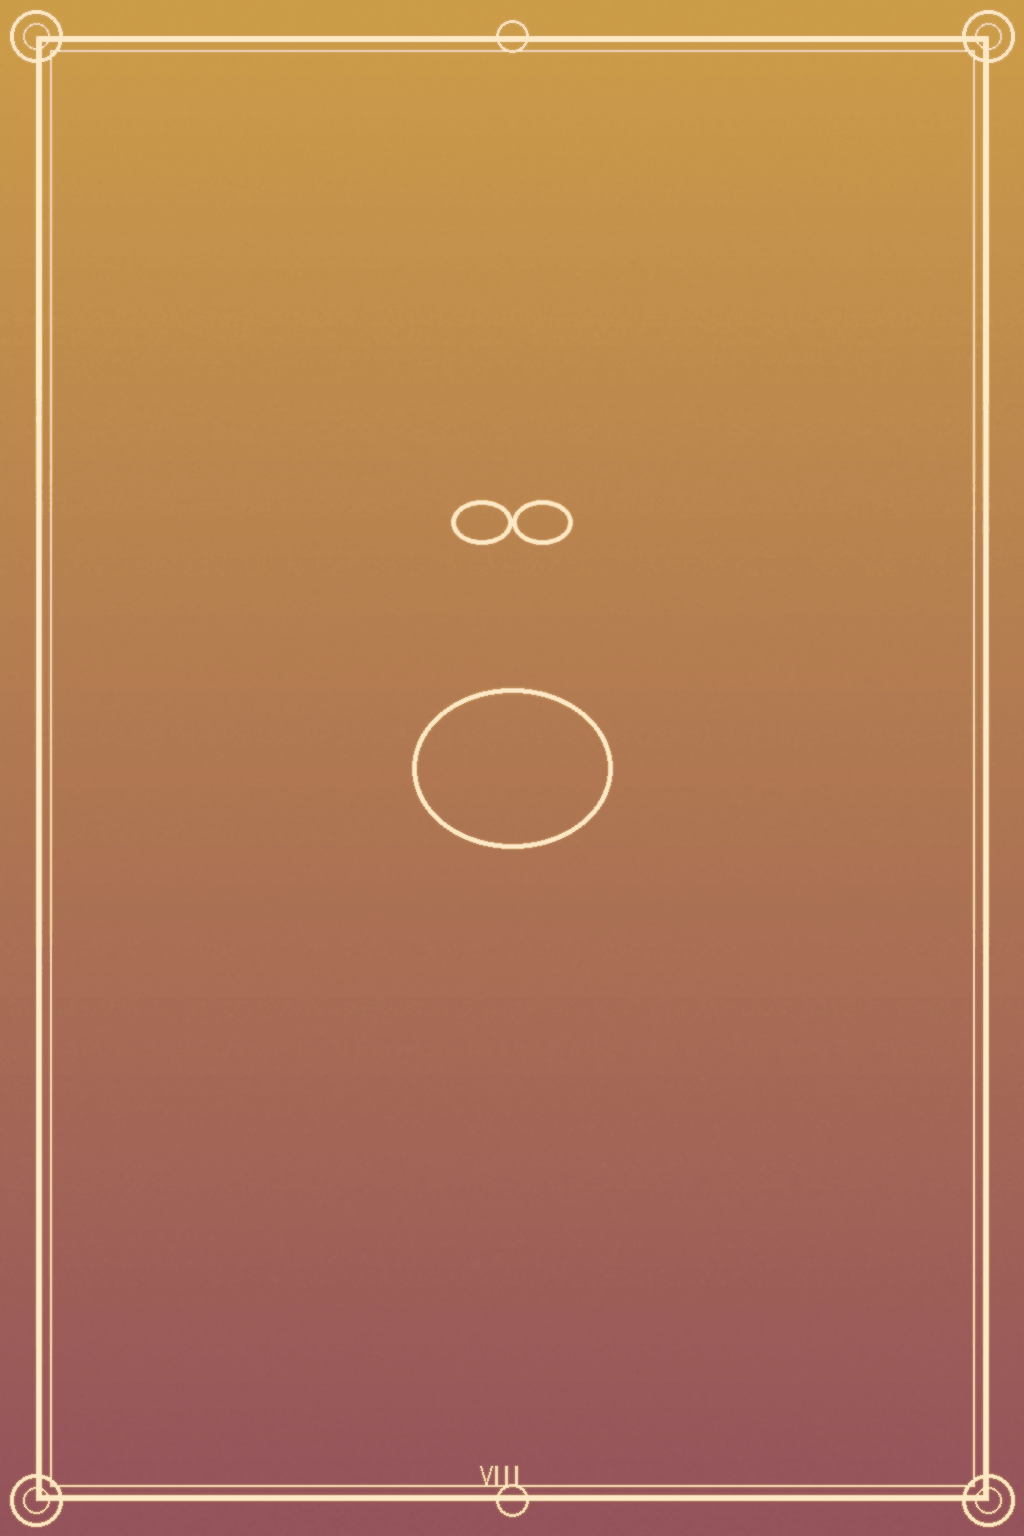
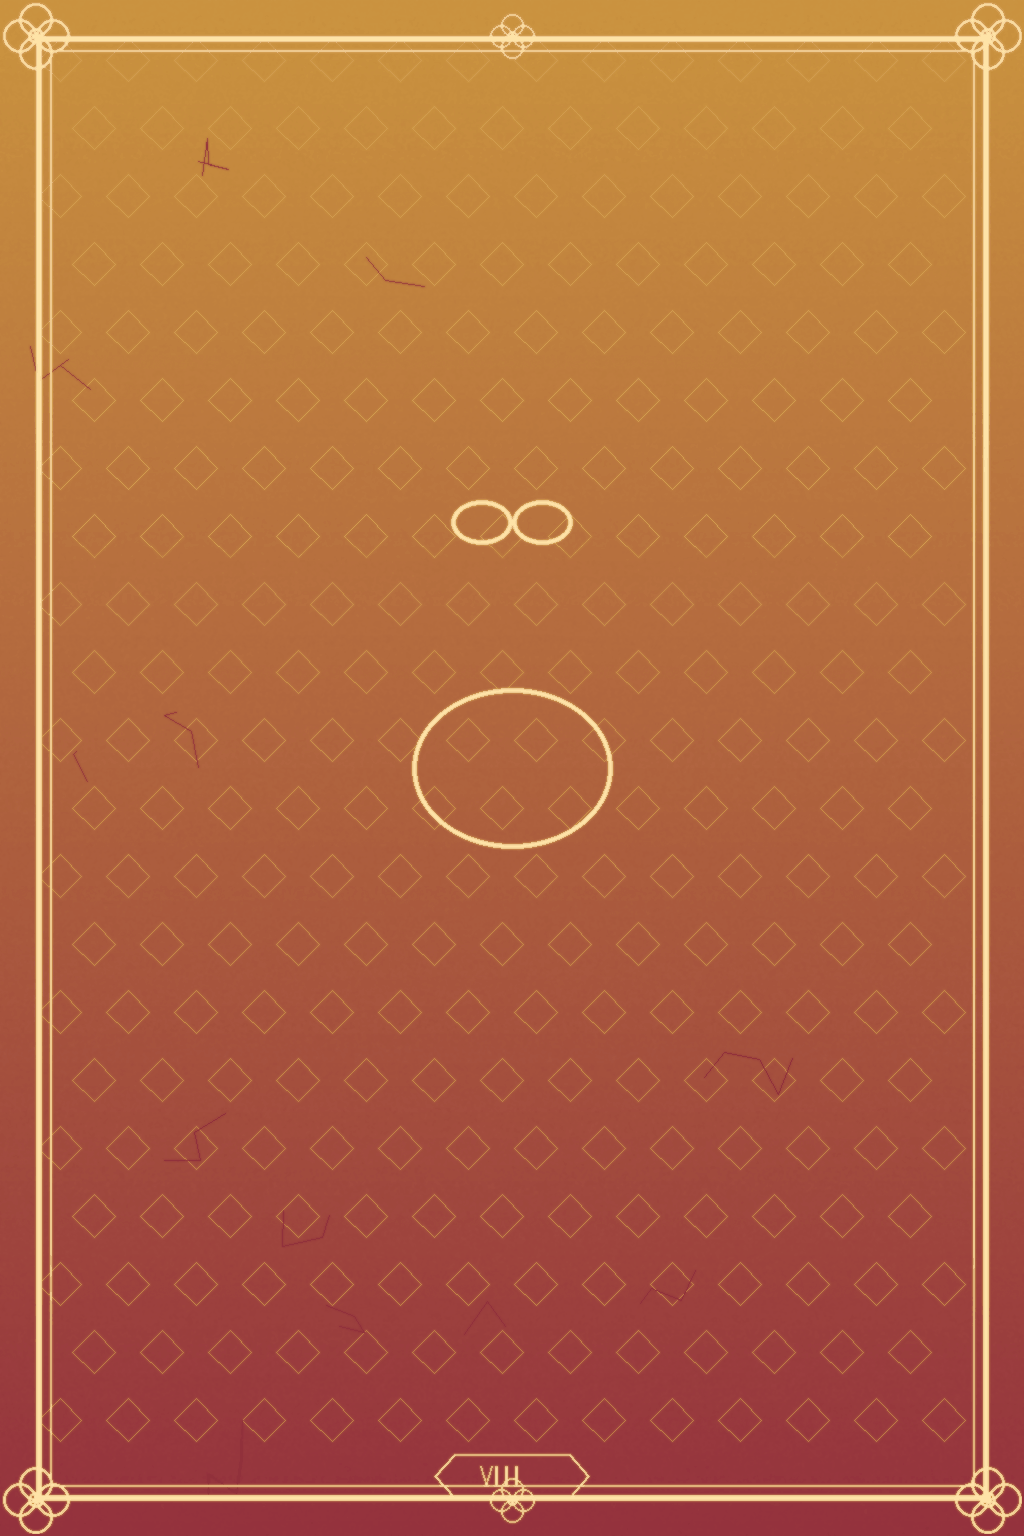
カード画像を最古のタロットカード(Visconti-Sforza等)風に刷新
これまでの配色・装飾は現代的な線画寄りだったため、現存最古級の
タロットカードを参考に以下を追加・変更した。

- 配色: 「暖色/寒色」の単純な対比をやめ、実物同様どちらの気分
  (positive/negative)も金地を基調にし、下部の色だけ緋色(positive)/
  藍黒・臙脂(negative)に変える配色に変更
- 金箔に打ち出した菱形格子(diaper pattern)を背景全面に追加
- カード四隅・上下中央の飾りを単純な円から四つ葉のクローバー
  (quatrefoil)に変更(古い装飾写本によく見られる意匠)
- 経年劣化を思わせる細いひび割れ(crackle)を全体に薄く追加
- カード番号を、両端が尖った巻物(カルトゥーシュ)風の帯で囲むように変更

22枚すべてを再生成済み。

diff --git a/ai_fortune_system/scripts/generate_templates.py b/ai_fortune_system/scripts/generate_templates.py
@@ -29,15 +29,18 @@ CANVAS_SIZE = (1024, 1536)
 BASE_DIR = os.path.dirname(os.path.dirname(os.path.abspath(__file__)))
 TEMPLATES_DIR = os.path.join(BASE_DIR, "assets", "templates")
 
+# Visconti-Sforza / Marseille版など「現存最古級」のタロットカードを参考にした配色。
+# 当時の実物同様、暗い場面のカード(negative)も含めて金箔をベースにしており、
+# 単純な暖色/寒色の対比ではなく「金地に緋色」「金地に藍黒」という違いにしている。
 POSITIVE_PALETTES = [
-    ((214, 168, 88), (176, 92, 78)),
-    ((232, 194, 120), (196, 108, 96)),
-    ((210, 160, 70), (150, 80, 90)),
+    ((224, 178, 84), (168, 58, 54)),
+    ((236, 196, 110), (188, 82, 64)),
+    ((208, 150, 60), (150, 46, 58)),
 ]
 NEGATIVE_PALETTES = [
-    ((60, 66, 92), (26, 28, 40)),
-    ((70, 74, 100), (34, 30, 46)),
-    ((52, 60, 82), (20, 22, 32)),
+    ((188, 140, 70), (58, 24, 34)),
+    ((176, 130, 68), (44, 30, 58)),
+    ((196, 148, 76), (40, 20, 24)),
 ]
 
 # 大アルカナ22枚。(スラッグ, 気分, 番号)。気分は恋愛の悩みというテーマに
@@ -72,6 +75,10 @@ def _lerp(a: int, b: int, t: float) -> int:
     return int(a + (b - a) * t)
 
 
+def _blend_color(c1, c2, t: float) -> tuple[int, int, int]:
+    return tuple(_lerp(c1[i], c2[i], t) for i in range(3))
+
+
 def _gradient_background(size: tuple[int, int], top_color, bottom_color) -> Image.Image:
     w, h = size
     img = Image.new("RGB", size, top_color)
@@ -91,25 +98,84 @@ def _add_parchment_noise(img: Image.Image, amount: int = 10) -> Image.Image:
     return Image.blend(img, noise_rgb, alpha)
 
 
+def _draw_diaper_pattern(draw: ImageDraw.ImageDraw, size: tuple[int, int], color, spacing: int = 68) -> None:
+    """Visconti-Sforza版などに見られる、金地に打ち出された菱形格子(diaper pattern)を
+    低コントラストで背景全体に敷く。"""
+    w, h = size
+    margin = 60
+    row = 0
+    y = margin
+    while y < h - margin:
+        offset = (spacing // 2) if row % 2 else 0
+        x = margin + offset
+        while x < w - margin:
+            r = spacing * 0.32
+            draw.polygon([(x, y - r), (x + r, y), (x, y + r), (x - r, y)], outline=color, width=1)
+            x += spacing
+        y += spacing
+        row += 1
+
+
+def _draw_quatrefoil(draw: ImageDraw.ImageDraw, center, radius, color, width: int = 3) -> None:
+    """四つ葉のクローバー状の飾り(古い装飾写本・タロットカードの角飾りに多い意匠)。"""
+    cx, cy = center
+    r = radius * 0.55
+    for dx, dy in [(-r, 0), (r, 0), (0, -r), (0, r)]:
+        draw.ellipse([cx + dx - r, cy + dy - r, cx + dx + r, cy + dy + r], outline=color, width=width)
+    draw.ellipse(
+        [cx - radius * 0.25, cy - radius * 0.25, cx + radius * 0.25, cy + radius * 0.25], outline=color, width=width
+    )
+
+
+def _draw_crackle(draw: ImageDraw.ImageDraw, size: tuple[int, int], color, rng: random.Random, count: int = 16) -> None:
+    """経年で生じたニス・顔料のひび割れを模した、細く控えめなひび模様を全面に散らす。"""
+    w, h = size
+    for _ in range(count):
+        x, y = rng.uniform(0, w), rng.uniform(0, h)
+        segments = rng.randint(2, 4)
+        for _ in range(segments):
+            nx = x + rng.uniform(-40, 40)
+            ny = y + rng.uniform(-40, 40)
+            draw.line([(x, y), (nx, ny)], fill=color, width=1)
+            x, y = nx, ny
+
+
+def _draw_numeral_banner(draw: ImageDraw.ImageDraw, center, width_: float, height: float, color) -> None:
+    """カード番号を収める、両端が尖った古い巻物(カルトゥーシュ)風の帯。"""
+    cx, cy = center
+    left, right = cx - width_ / 2, cx + width_ / 2
+    top, bottom = cy - height / 2, cy + height / 2
+    notch = height * 0.45
+    draw.polygon(
+        [
+            (left, top),
+            (right, top),
+            (right + notch, cy),
+            (right, bottom),
+            (left, bottom),
+            (left - notch, cy),
+        ],
+        outline=color,
+        width=2,
+    )
+
+
 def _draw_ornate_border(draw: ImageDraw.ImageDraw, size: tuple[int, int], color) -> None:
     w, h = size
     margin = 36
     draw.rectangle([margin, margin, w - margin, h - margin], outline=color, width=6)
     draw.rectangle([margin + 14, margin + 14, w - margin - 14, h - margin - 14], outline=color, width=2)
 
-    corner_r = 26
     for cx, cy in [
         (margin, margin),
         (w - margin, margin),
         (margin, h - margin),
         (w - margin, h - margin),
     ]:
-        draw.ellipse([cx - corner_r, cy - corner_r, cx + corner_r, cy + corner_r], outline=color, width=4)
-        draw.ellipse([cx - corner_r // 2, cy - corner_r // 2, cx + corner_r // 2, cy + corner_r // 2], outline=color, width=2)
+        _draw_quatrefoil(draw, (cx, cy), 30, color, width=3)
 
     for cy in (margin, h - margin):
-        cx = w // 2
-        draw.ellipse([cx - 16, cy - 16, cx + 16, cy + 16], outline=color, width=3)
+        _draw_quatrefoil(draw, (w // 2, cy), 20, color, width=2)
 
 
 def _draw_roman_numeral_label(draw: ImageDraw.ImageDraw, numeral: str, size: tuple[int, int], color) -> None:
@@ -557,19 +623,31 @@ def _make_card(slug: str, mood: str, numeral: str) -> Image.Image:
     rng = random.Random(f"{slug}-{mood}")
     if mood == "positive":
         top_color, bottom_color = rng.choice(POSITIVE_PALETTES)
-        line_color = (255, 235, 200)
+        line_color = (255, 228, 168)
     else:
         top_color, bottom_color = rng.choice(NEGATIVE_PALETTES)
-        line_color = (150, 160, 190)
+        line_color = (214, 184, 128)
+
+    # 金地に打ち出した格子模様(diaper pattern)は背景に溶け込む薄い金色に、
+    # ひび割れは地の色をわずかに暗くした色にして、どちらも図案より目立たないようにする。
+    pattern_color = _blend_color(top_color, line_color, 0.3)
+    crackle_color = _blend_color(bottom_color, (10, 6, 8), 0.22)
 
     img = _gradient_background(CANVAS_SIZE, top_color, bottom_color)
     img = _add_parchment_noise(img, amount=14 if mood == "positive" else 16)
     draw = ImageDraw.Draw(img)
 
+    _draw_diaper_pattern(draw, CANVAS_SIZE, pattern_color)
+
     icon_fn = CARD_ICONS[slug]
     icon_fn(draw, CANVAS_SIZE, line_color, rng)
 
+    _draw_crackle(draw, CANVAS_SIZE, crackle_color, rng, count=12)
+
     _draw_ornate_border(draw, CANVAS_SIZE, line_color)
+    w, h = CANVAS_SIZE
+    banner_width = max(70, 24 * len(numeral) + 20)
+    _draw_numeral_banner(draw, (w // 2, h - 60), banner_width, 44, line_color)
     _draw_roman_numeral_label(draw, numeral, CANVAS_SIZE, line_color)
     img = img.filter(ImageFilter.SMOOTH_MORE)
     return img
